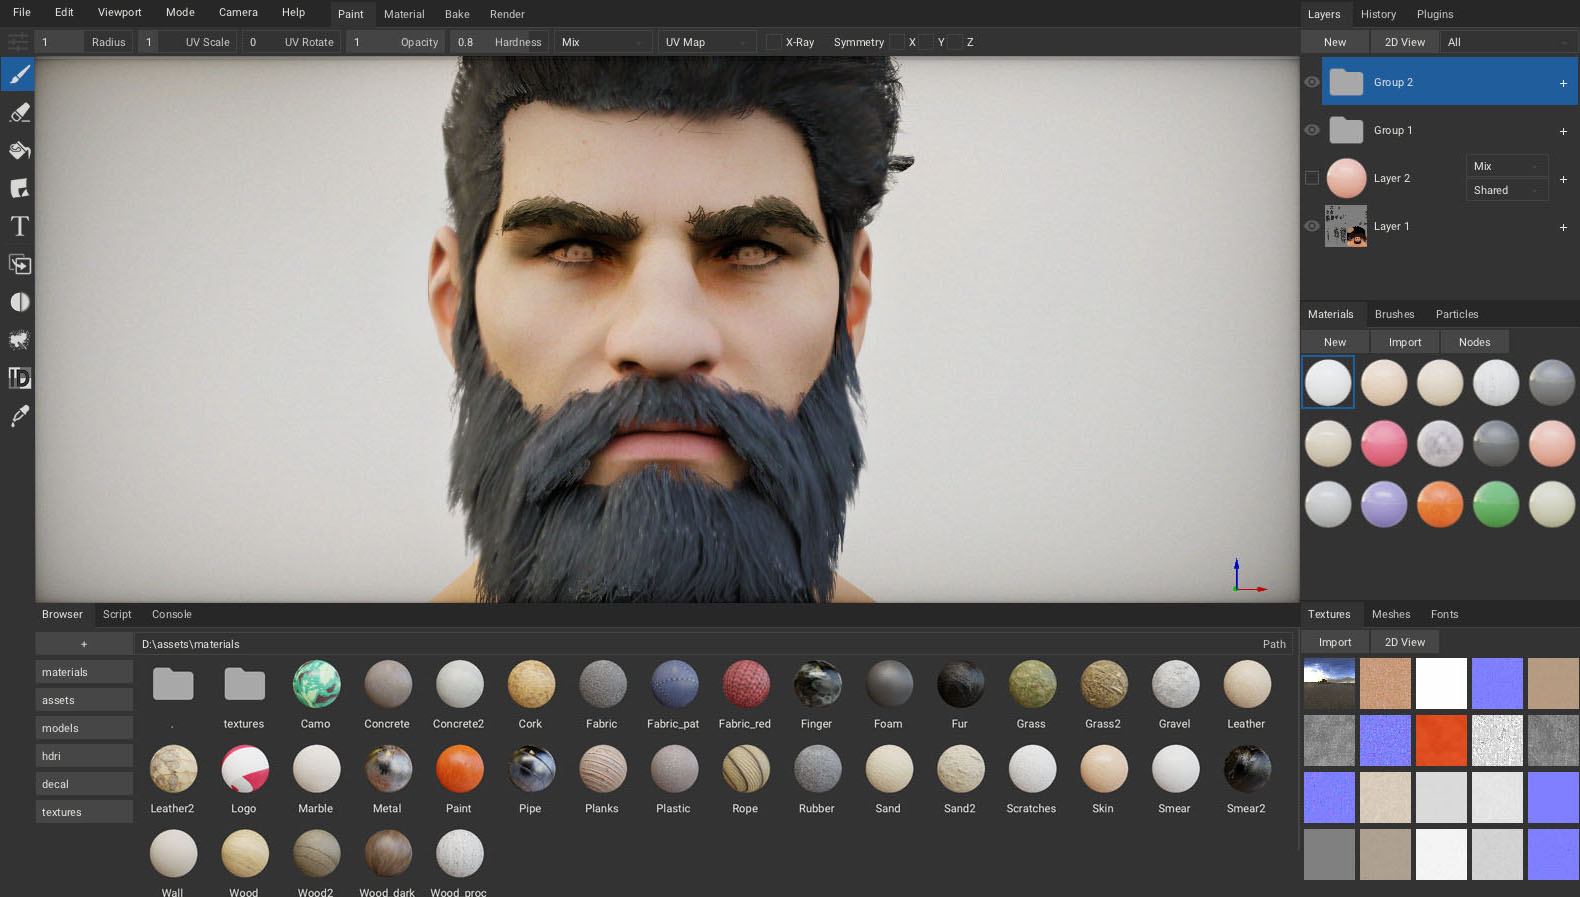
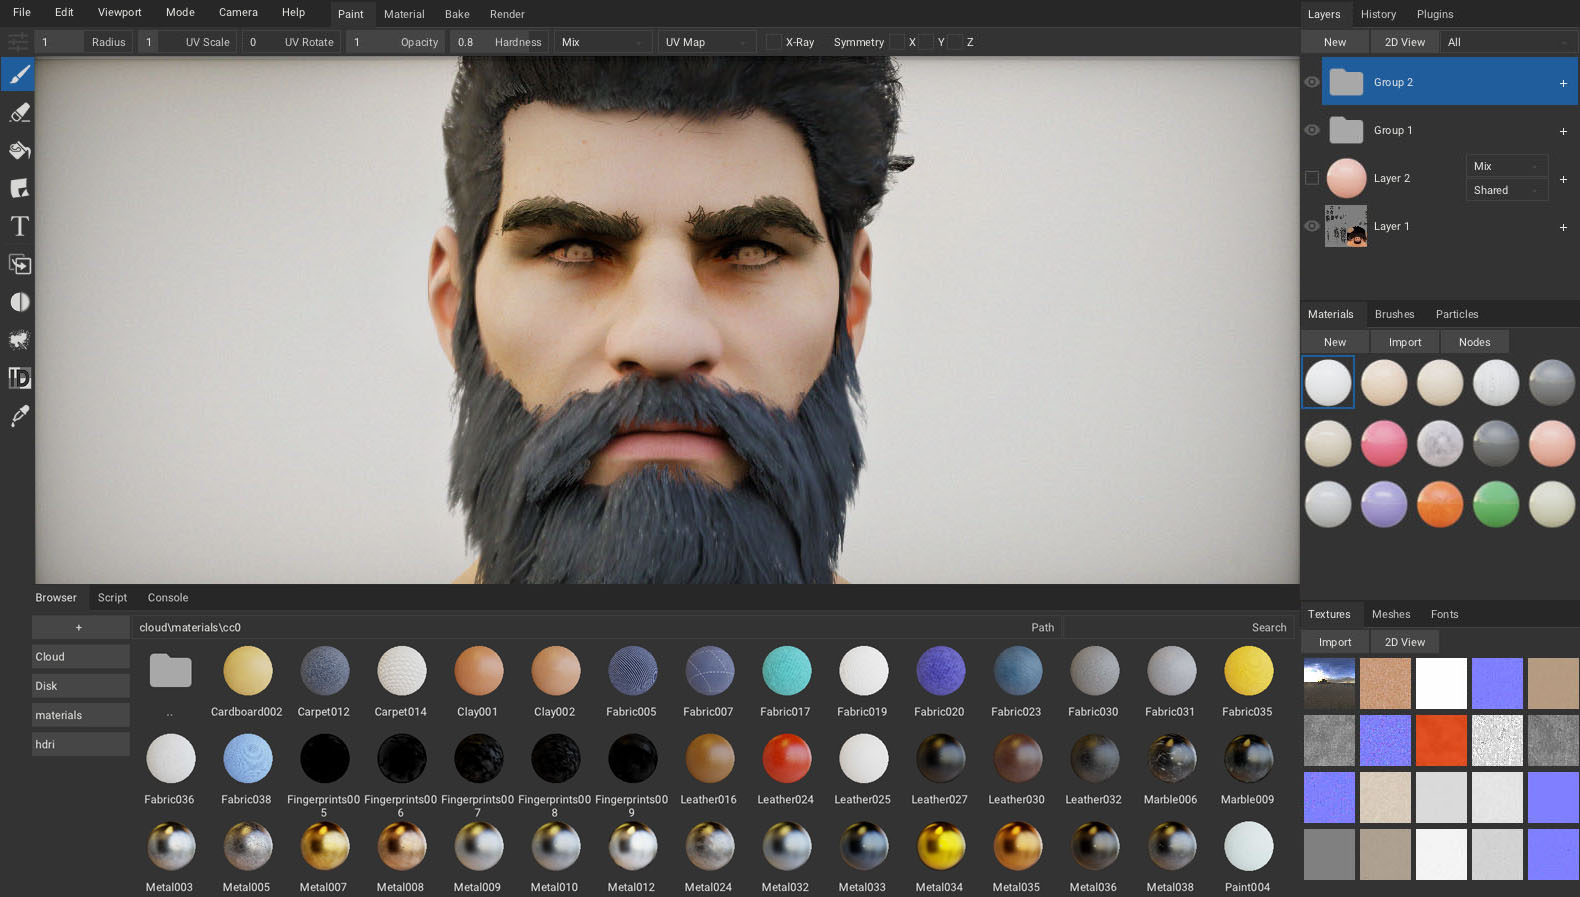
Sync

diff --git a/cloud.html b/cloud.html
@@ -84,18 +84,22 @@
     <div class="uk-text-center">
 
     	<br/>
-    	<h3>Library of procedural materials, brushes, decals, particles and plugins for ArmorPaint.📚</h3>
+    	<h3>Library of materials, brushes, decals and HDRIs for ArmorPaint.📚</h3>
 
-    	Opening soon!<br/><br/>
+    	Open 'Browser - Cloud' in ArmorPaint and drag assets into your projects!<br/><br/>
     </div>
   </div>
 
   <div class="uk-section uk-section-secondary">
       <div align="center">
         <img src="img/d.jpg" width="50%">
+        <br/>
+        <br/>
       </div>
   </div>
-  <!-- Footer Content -->
+
+<div class="uk-section-secondary" style="justify-content: center; display: grid; grid-template-columns: 130px 130px 130px 130px 130px 130px;">
+<div align="center"><img width="100px" src="img/cloud/ground_blue_001_icon.png"/><br>ground_blue_...<br><br></div><div align="center"><img width="100px" src="img/cloud/wood_burnt_001_icon.png"/><br>wood_burnt_001<br><br></div><div align="center"><img width="100px" src="img/cloud/camouflage_icon.png"/><br>camouflage<br><br></div><div align="center"><img width="100px" src="img/cloud/wood_stylized_icon.png"/><br>wood_stylized<br><br></div><div align="center"><img width="100px" src="img/cloud/Cardboard002_icon.png"/><br>Cardboard002<br><br></div><div align="center"><img width="100px" src="img/cloud/Carpet012_icon.png"/><br>Carpet012<br><br></div><div align="center"><img width="100px" src="img/cloud/Carpet014_icon.png"/><br>Carpet014<br><br></div><div align="center"><img width="100px" src="img/cloud/Clay001_icon.png"/><br>Clay001<br><br></div><div align="center"><img width="100px" src="img/cloud/Clay002_icon.png"/><br>Clay002<br><br></div><div align="center"><img width="100px" src="img/cloud/Fabric005_icon.png"/><br>Fabric005<br><br></div><div align="center"><img width="100px" src="img/cloud/Fabric007_icon.png"/><br>Fabric007<br><br></div><div align="center"><img width="100px" src="img/cloud/Fabric017_icon.png"/><br>Fabric017<br><br></div><div align="center"><img width="100px" src="img/cloud/Fabric019_icon.png"/><br>Fabric019<br><br></div><div align="center"><img width="100px" src="img/cloud/Fabric020_icon.png"/><br>Fabric020<br><br></div><div align="center"><img width="100px" src="img/cloud/Fabric023_icon.png"/><br>Fabric023<br><br></div><div align="center"><img width="100px" src="img/cloud/Fabric030_icon.png"/><br>Fabric030<br><br></div><div align="center"><img width="100px" src="img/cloud/Fabric031_icon.png"/><br>Fabric031<br><br></div><div align="center"><img width="100px" src="img/cloud/Fabric035_icon.png"/><br>Fabric035<br><br></div><div align="center"><img width="100px" src="img/cloud/Fabric036_icon.png"/><br>Fabric036<br><br></div><div align="center"><img width="100px" src="img/cloud/Fabric038_icon.png"/><br>Fabric038<br><br></div><div align="center"><img width="100px" src="img/cloud/Fingerprints005_icon.png"/><br>Fingerprints...<br><br></div><div align="center"><img width="100px" src="img/cloud/Fingerprints006_icon.png"/><br>Fingerprints...<br><br></div><div align="center"><img width="100px" src="img/cloud/Fingerprints007_icon.png"/><br>Fingerprints...<br><br></div><div align="center"><img width="100px" src="img/cloud/Fingerprints008_icon.png"/><br>Fingerprints...<br><br></div><div align="center"><img width="100px" src="img/cloud/Fingerprints009_icon.png"/><br>Fingerprints...<br><br></div><div align="center"><img width="100px" src="img/cloud/Leather016_icon.png"/><br>Leather016<br><br></div><div align="center"><img width="100px" src="img/cloud/Leather024_icon.png"/><br>Leather024<br><br></div><div align="center"><img width="100px" src="img/cloud/Leather025_icon.png"/><br>Leather025<br><br></div><div align="center"><img width="100px" src="img/cloud/Leather027_icon.png"/><br>Leather027<br><br></div><div align="center"><img width="100px" src="img/cloud/Leather030_icon.png"/><br>Leather030<br><br></div><div align="center"><img width="100px" src="img/cloud/Leather032_icon.png"/><br>Leather032<br><br></div><div align="center"><img width="100px" src="img/cloud/Marble006_icon.png"/><br>Marble006<br><br></div><div align="center"><img width="100px" src="img/cloud/Marble009_icon.png"/><br>Marble009<br><br></div><div align="center"><img width="100px" src="img/cloud/Metal003_icon.png"/><br>Metal003<br><br></div><div align="center"><img width="100px" src="img/cloud/Metal005_icon.png"/><br>Metal005<br><br></div><div align="center"><img width="100px" src="img/cloud/Metal007_icon.png"/><br>Metal007<br><br></div><div align="center"><img width="100px" src="img/cloud/Metal008_icon.png"/><br>Metal008<br><br></div><div align="center"><img width="100px" src="img/cloud/Metal009_icon.png"/><br>Metal009<br><br></div><div align="center"><img width="100px" src="img/cloud/Metal010_icon.png"/><br>Metal010<br><br></div><div align="center"><img width="100px" src="img/cloud/Metal012_icon.png"/><br>Metal012<br><br></div><div align="center"><img width="100px" src="img/cloud/Metal024_icon.png"/><br>Metal024<br><br></div><div align="center"><img width="100px" src="img/cloud/Metal032_icon.png"/><br>Metal032<br><br></div><div align="center"><img width="100px" src="img/cloud/Metal033_icon.png"/><br>Metal033<br><br></div><div align="center"><img width="100px" src="img/cloud/Metal034_icon.png"/><br>Metal034<br><br></div><div align="center"><img width="100px" src="img/cloud/Metal035_icon.png"/><br>Metal035<br><br></div><div align="center"><img width="100px" src="img/cloud/Metal036_icon.png"/><br>Metal036<br><br></div><div align="center"><img width="100px" src="img/cloud/Metal038_icon.png"/><br>Metal038<br><br></div><div align="center"><img width="100px" src="img/cloud/Paint004_icon.png"/><br>Paint004<br><br></div><div align="center"><img width="100px" src="img/cloud/PaintedMetal001_icon.png"/><br>PaintedMetal...<br><br></div><div align="center"><img width="100px" src="img/cloud/PaintedMetal004_icon.png"/><br>PaintedMetal...<br><br></div><div align="center"><img width="100px" src="img/cloud/PaintedMetal008_icon.png"/><br>PaintedMetal...<br><br></div><div align="center"><img width="100px" src="img/cloud/PaintedWood003_icon.png"/><br>PaintedWood003<br><br></div><div align="center"><img width="100px" src="img/cloud/Paper003_icon.png"/><br>Paper003<br><br></div><div align="center"><img width="100px" src="img/cloud/Pipe004_icon.png"/><br>Pipe004<br><br></div><div align="center"><img width="100px" src="img/cloud/Plaster001_icon.png"/><br>Plaster001<br><br></div><div align="center"><img width="100px" src="img/cloud/Plaster003_icon.png"/><br>Plaster003<br><br></div><div align="center"><img width="100px" src="img/cloud/Plaster005_icon.png"/><br>Plaster005<br><br></div><div align="center"><img width="100px" src="img/cloud/Plastic001_icon.png"/><br>Plastic001<br><br></div><div align="center"><img width="100px" src="img/cloud/Plastic005_icon.png"/><br>Plastic005<br><br></div><div align="center"><img width="100px" src="img/cloud/Plastic006_icon.png"/><br>Plastic006<br><br></div><div align="center"><img width="100px" src="img/cloud/Plastic007_icon.png"/><br>Plastic007<br><br></div><div align="center"><img width="100px" src="img/cloud/Plastic008_icon.png"/><br>Plastic008<br><br></div><div align="center"><img width="100px" src="img/cloud/Plastic009_icon.png"/><br>Plastic009<br><br></div><div align="center"><img width="100px" src="img/cloud/Plastic010_icon.png"/><br>Plastic010<br><br></div><div align="center"><img width="100px" src="img/cloud/Porcelain001_icon.png"/><br>Porcelain001<br><br></div><div align="center"><img width="100px" src="img/cloud/Porcelain002_icon.png"/><br>Porcelain002<br><br></div><div align="center"><img width="100px" src="img/cloud/Porcelain003_icon.png"/><br>Porcelain003<br><br></div><div align="center"><img width="100px" src="img/cloud/Rust005_icon.png"/><br>Rust005<br><br></div><div align="center"><img width="100px" src="img/cloud/Wood021_icon.png"/><br>Wood021<br><br></div><div align="center"><img width="100px" src="img/cloud/Wood026_icon.png"/><br>Wood026<br><br></div><div align="center"><img width="100px" src="img/cloud/Wood030_icon.png"/><br>Wood030<br><br></div><div align="center"><img width="100px" src="img/cloud/Wood052_icon.png"/><br>Wood052<br><br></div><div align="center"><img width="100px" src="img/cloud/armory_icon.jpg"/><br>armory<br><br></div><div align="center"><img width="100px" src="img/cloud/autumn_hockey_4k_icon.jpg"/><br>autumn_hocke...<br><br></div><div align="center"><img width="100px" src="img/cloud/blouberg_sunrise_1_4k_icon.jpg"/><br>blouberg_sun...<br><br></div><div align="center"><img width="100px" src="img/cloud/canary_wharf_4k_icon.jpg"/><br>canary_wharf...<br><br></div><div align="center"><img width="100px" src="img/cloud/dikhololo_night_4k_icon.jpg"/><br>dikhololo_ni...<br><br></div><div align="center"><img width="100px" src="img/cloud/dresden_moat_4k_icon.jpg"/><br>dresden_moat...<br><br></div><div align="center"><img width="100px" src="img/cloud/forest_cave_4k_icon.jpg"/><br>forest_cave_4k<br><br></div><div align="center"><img width="100px" src="img/cloud/reinforced_concrete_01_4k_icon.jpg"/><br>reinforced_c...<br><br></div><div align="center"><img width="100px" src="img/cloud/reinforced_concrete_02_4k_icon.jpg"/><br>reinforced_c...<br><br></div><div align="center"><img width="100px" src="img/cloud/schadowplatz_4k_icon.jpg"/><br>schadowplatz...<br><br></div><div align="center"><img width="100px" src="img/cloud/snowy_park_01_4k_icon.jpg"/><br>snowy_park_0...<br><br></div><div align="center"><img width="100px" src="img/cloud/summer_stage_02_4k_icon.jpg"/><br>summer_stage...<br><br></div><div align="center"><img width="100px" src="img/cloud/sunset_in_the_chalk_quarry_4k_icon.jpg"/><br>sunset_in_th...<br><br></div><div align="center"><img width="100px" src="img/cloud/the_sky_is_on_fire_4k_icon.jpg"/><br>the_sky_is_o...<br><br></div><div align="center"><img width="100px" src="img/cloud/whipple_creek_regional_park_01_4k_icon.jpg"/><br>whipple_cree...<br><br></div></div><div class="uk-section uk-section-secondary"><div class="uk-text-center">Contains assets from <a href="https://cc0textures.com/">CC0 Textures</a> and <a href="https://hdrihaven.com/">HDRI Haven</a>. ❤ Licensed under CC0.<br><br></div></div>  <!-- Footer Content -->
   <div class="ro-background-darksecondary">
     <br><br>
     <div class="uk-container uk-container-small">

diff --git a/build/make.js b/build/make.js
@@ -1,10 +1,10 @@
 let fs = require('fs');
 
-let writeHtml = function(fileName) {
+let writeHtml = function(fileName, body = '') {
 	let header = fs.readFileSync('header.html', 'utf8');
 	let footer = fs.readFileSync('footer.html', 'utf8');
 	let html = fs.readFileSync(fileName, 'utf8');
-	fs.writeFileSync('../' + fileName, header + html + footer);
+	fs.writeFileSync('../' + fileName, header + html + body + footer);
 }
 
 writeHtml('index.html');
@@ -13,4 +13,35 @@ writeHtml('community.html');
 writeHtml('download.html');
 writeHtml('notes.html');
 writeHtml('howto.html');
-writeHtml('cloud.html');
+
+fs.rmdirSync('../img/cloud', { recursive: true });
+fs.mkdirSync('../img/cloud');
+
+cloud_grid = `
+<div class="uk-section-secondary" style="justify-content: center; display: grid; grid-template-columns: 130px 130px 130px 130px 130px 130px;">
+`;
+
+let icon_folders = [
+	'../../armorpaint_cloud/public/cloud/materials/scanned',
+	'../../armorpaint_cloud/public/cloud/materials/procedural',
+	'../../armorpaint_cloud/public/cloud/materials/cc0',
+	'../../armorpaint_cloud/public/cloud/decals',
+	'../../armorpaint_cloud/public/cloud/brushes',
+	'../../armorpaint_cloud/public/cloud/hdri',
+	'../../armorpaint_cloud/public/cloud/meshes'
+];
+
+for (folder of icon_folders) {
+	fs.readdirSync(folder).forEach(file => {
+		if (file.endsWith(folder.indexOf('/materials') > 0 ? '.png' : '.jpg')) {
+			fs.copyFileSync(folder + '/' + file, '../img/cloud/' + file);
+			label = file.slice(0, -9);
+			if (label.length > 14) label = label.substring(0, 12) + '...';
+			cloud_grid += '<div align="center"><img width="100px" src="img/cloud/' + file + '"/><br>' + label + '<br><br></div>';
+		}
+	});
+}
+
+cloud_grid += '</div>';
+cloud_grid += '<div class="uk-section uk-section-secondary"><div class="uk-text-center">Contains assets from <a href="https://cc0textures.com/">CC0 Textures</a> and <a href="https://hdrihaven.com/">HDRI Haven</a>. ❤ Licensed under CC0.<br><br></div></div>';
+writeHtml('cloud.html', cloud_grid);

diff --git a/manual.html b/manual.html
@@ -43,7 +43,7 @@
             <li><a href="manual.html">manual</a></li>
             <li><a href="howto.html">how to</a></li>
             <li><a href="community.html">community</a></li>
-            <li><a href="library.html">library</a></li>
+            <li><a href="cloud.html">cloud</a></li>
           </ul>
           <a class="uk-button uk-button-default" href="download.html">download</a>
         </div>
@@ -65,7 +65,7 @@
         <li><a href="manual.html">manual</a></li>
         <li><a href="howto.html">howto</a></li>
         <li><a href="community.html">community</a></li>
-        <li><a href="library.html">library</a></li>
+        <li><a href="cloud.html">cloud</a></li>
         <li><a href="download.html">download</a></li>
       </ul>
     </div>

diff --git a/build/cloud.html b/build/cloud.html
@@ -3,14 +3,16 @@
     <div class="uk-text-center">
 
     	<br/>
-    	<h3>Library of procedural materials, brushes, decals, particles and plugins for ArmorPaint.📚</h3>
+    	<h3>Library of materials, brushes, decals and HDRIs for ArmorPaint.📚</h3>
 
-    	Opening soon!<br/><br/>
+    	Open 'Browser - Cloud' in ArmorPaint and drag assets into your projects!<br/><br/>
     </div>
   </div>
 
   <div class="uk-section uk-section-secondary">
       <div align="center">
         <img src="img/d.jpg" width="50%">
+        <br/>
+        <br/>
       </div>
   </div>

diff --git a/news.html b/news.html
@@ -83,7 +83,7 @@
   <div class="uk-section uk-section-secondary">
     <div class="uk-text-center">
 
-    	 <br><br>
+    	<br><br>
 
         <br><a href="https://tinyletter.com/armory">Sign up</a> for ArmorPaint news.<br><br><br>
 

diff --git a/build/news.html b/build/news.html
@@ -2,7 +2,7 @@
   <div class="uk-section uk-section-secondary">
     <div class="uk-text-center">
 
-    	 <br><br>
+    	<br><br>
 
         <br><a href="https://tinyletter.com/armory">Sign up</a> for ArmorPaint news.<br><br><br>
 
